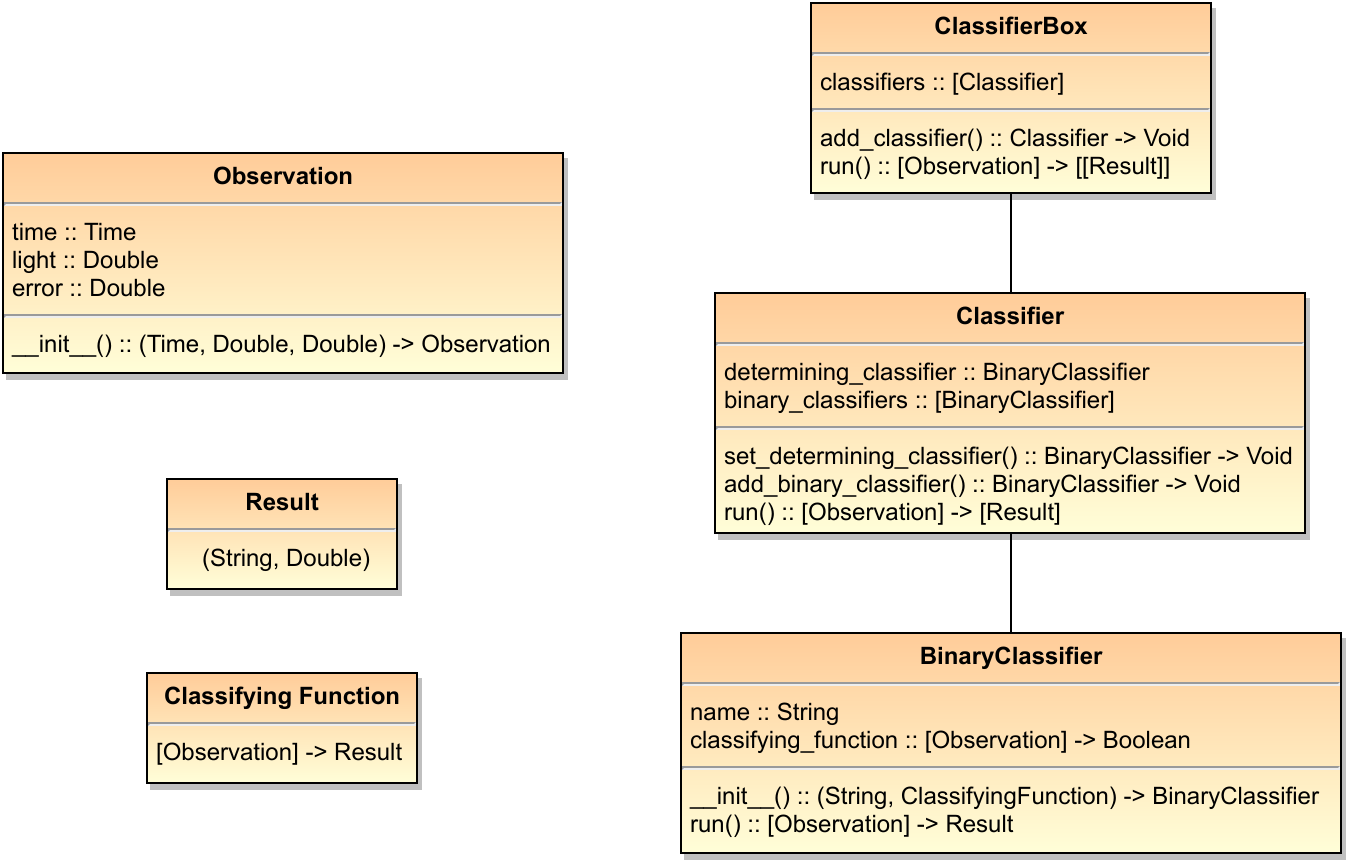
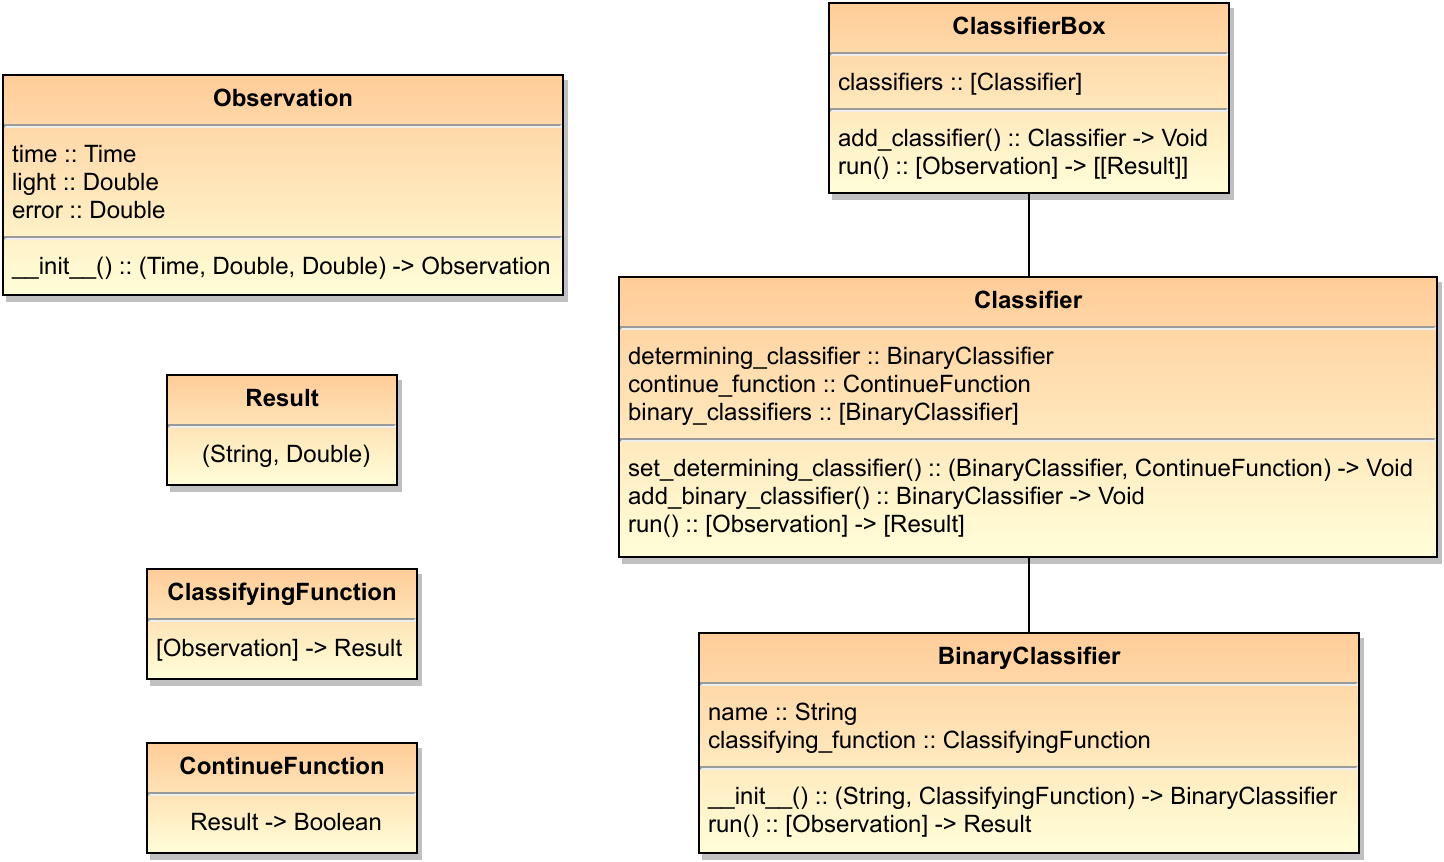
Implement determining classifiers
Implement determining classifiers in the Classifier class. Also add tests for the new method implementations.

Additionally, update the uml diagram to include the new changes.

diff --git a/tests/test_classifier.py b/tests/test_classifier.py
@@ -23,16 +23,25 @@ class TestClassifier(unittest.TestCase):
         self.assertEquals([], test_classifier2.binary_classifiers)
 
     def test_set_determining_classifier(self):
-        def function(_): return 0.5
-        test_binary_classifier = binary_classifier.BinaryClassifier("001", function)
+        def function(_): return 0.7
+        test_determining_classifier = binary_classifier.BinaryClassifier("D001", function)
+
+        def continue_function(x):
+            (_, value) = x
+            return value > 0.5
         test_classifier = classifier.Classifier()
 
-        with self.assertRaises(NotImplementedError) as context:
-            test_classifier.set_determining_classifier(test_binary_classifier)
+        test_classifier.set_determining_classifier(test_determining_classifier, continue_function)
 
-        self.assertTrue("Have not yet implemented Determining Classifiers" in context.exception)
+        self.assertEquals(test_determining_classifier, test_classifier.determining_classifier)
+        self.assertEquals(continue_function, test_classifier.continue_function)
 
-    def test_run(self):
+        # Run with just a determining classifier
+        no_observations = []
+        expected_results = [("D001", 0.7)]
+        self.assertEquals(expected_results, test_classifier.run(no_observations))
+
+    def test_run_no_determining(self):
         def function(_): return 0.7
         test_binary_classifier = binary_classifier.BinaryClassifier("001", function)
         test_classifier = classifier.Classifier()
@@ -52,3 +61,31 @@ class TestClassifier(unittest.TestCase):
         results2 = [("001", 0.7), ("002", 0.5)]
         self.assertEquals(results2, test_classifier.run(observations))
 
+    def test_run_with_determining(self):
+        # Test continue function evaluating to true
+        def function(_): return 0.7
+        test_determining_classifier = binary_classifier.BinaryClassifier("D001", function)
+
+        def function2(_): return 0.6
+        test_binary_classifier = binary_classifier.BinaryClassifier("002", function2)
+
+        def continue_function(x):
+            (_, value) = x
+            return value > 0.5
+        test_classifier = classifier.Classifier()
+
+        test_classifier.set_determining_classifier(test_determining_classifier, continue_function)
+        test_classifier.add_binary_classifier(test_binary_classifier)
+
+        observations = []
+        results = [("D001", 0.7), ("002", 0.6)]
+        self.assertEquals(results, test_classifier.run(observations))
+
+        # Test continue function evaluating to false
+        def function3(_): return 0.3
+        test_determining_classifier2 = binary_classifier.BinaryClassifier("D003", function3)
+        test_classifier.set_determining_classifier(test_determining_classifier2, continue_function)
+
+        observations = []
+        results = [("D003", 0.3)]
+        self.assertEquals(results, test_classifier.run(observations))

diff --git a/lsstbroker/classifier.py b/lsstbroker/classifier.py
@@ -4,16 +4,24 @@ class Classifier(object):
     """
 
     determining_classifier = None
+    continue_function = None
     binary_classifiers = None
 
     def __init__(self):
         self.binary_classifiers = []
 
-    def set_determining_classifier(self, binary_classifier):
+    def set_determining_classifier(self, determining_classifier, continue_function):
         """
-        Sets the given BinaryClassifier to be the Classifier's Determining Classifier.
+        Sets the determining classifier and continue function of the Classifier, these are used to determine whether the
+        observation data should be run through all of the binary classifiers or not.
+
+        :param determining_classifier: A Binary Classifier that is used in determining whether to run the rest of the
+        BinaryClassifiers.
+        :param continue_function: A function that takes the results of the determining classifier and tells whether to
+        run the rest of the BinaryClassifiers.
         """
-        raise NotImplementedError("Have not yet implemented Determining Classifiers")
+        self.determining_classifier = determining_classifier
+        self.continue_function = continue_function
 
     def add_binary_classifier(self, binary_classifier):
         """
@@ -27,6 +35,16 @@ class Classifier(object):
         Runs the given Observation data through the Classifier's BinaryClassifiers and returns the results as a list.
         """
         results = []
-        for binary_classifier in self.binary_classifiers:
-            results.append(binary_classifier.run(observations))
+        run_all_classifiers = True
+        if self.determining_classifier is not None:
+            determining_result = self.determining_classifier.run(observations)
+            results.append(determining_result)
+            should_continue = self.continue_function(determining_result)
+            if not should_continue:
+                run_all_classifiers = False
+
+        if run_all_classifiers:
+            for binary_classifier in self.binary_classifiers:
+                results.append(binary_classifier.run(observations))
+
         return results
